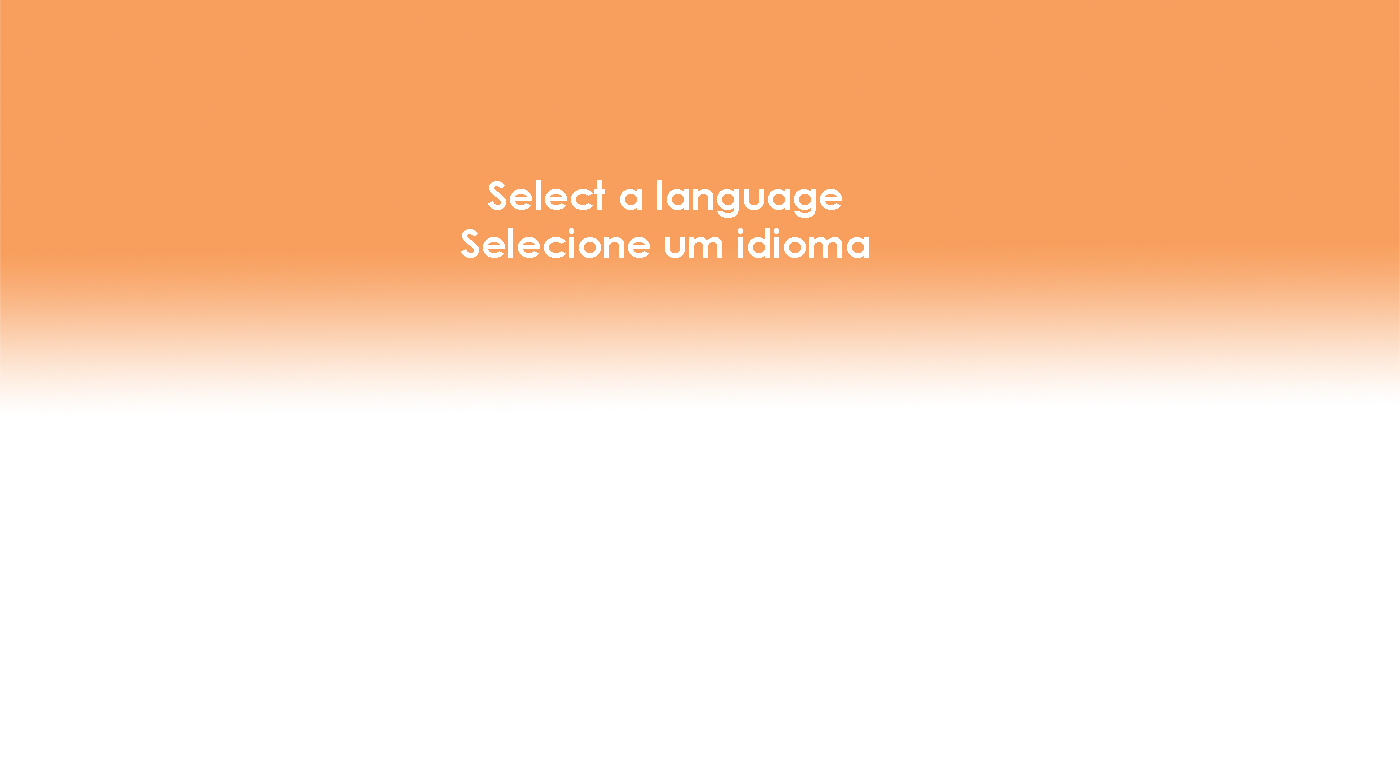
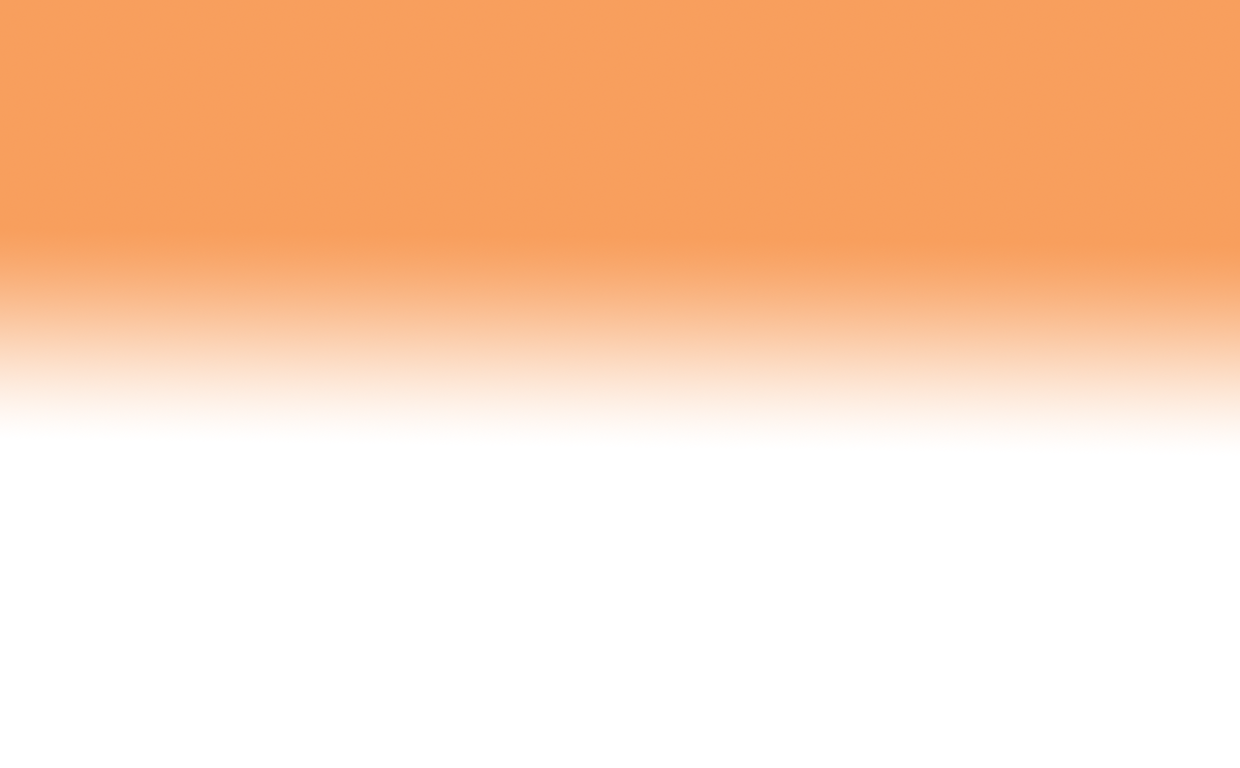
Fixing index

Changed region(s): [[0.5516, 0.4062, 1.0, 0.5625], [0.3371, 0.2188, 0.6435, 0.3438]]

diff --git a/index.html b/index.html
@@ -14,11 +14,19 @@
 </head>
 <body background="img/background.png">
   
+  <div style="margin-top: 200px; margin-left: 35%; margin-right: 30%; min-width: 50%;">
+    <p style="color: white;font-size: 20px;">
+         Select a language / Selecione um idioma
+    </p>
+    <div class="row" style="margin-top: 30px">
+      <a href="pageEN.html"><button type="button" class="btn btn-outline-secondary"
+        style="margin-left: 15px; width: 170px; height: 50px; margin-bottom: 20px;">English</button></a> 
+      <a href="pageBR.html"><button type="button" class="btn btn-outline-secondary"
+        style="margin-left: 15px; width: 170px; height: 50px;">Português</button></a>  
+    </div>
+    </div>
 
-  <a href="pageEN.html"><button type="button" class="btn btn-outline-secondary" 
-          style="margin-top: 25%; margin-left: 35%; width: 170px; height: 50px;">English</button></a>
-  <a href="pageBR.html"><button type="button" class="btn btn-outline-secondary" 
-          style="margin-top: 25%; margin-left: 20px; width: 170px; height: 50px;">Português</button></a>
+  
 
     <script src="https://code.jquery.com/jquery-3.2.1.slim.min.js" integrity="sha384-KJ3o2DKtIkvYIK3UENzmM7KCkRr/rE9/Qpg6aAZGJwFDMVNA/GpGFF93hXpG5KkN" crossorigin="anonymous"></script>
     <script src="https://cdnjs.cloudflare.com/ajax/libs/popper.js/1.12.9/umd/popper.min.js" integrity="sha384-ApNbgh9B+Y1QKtv3Rn7W3mgPxhU9K/ScQsAP7hUibX39j7fakFPskvXusvfa0b4Q" crossorigin="anonymous"></script>
